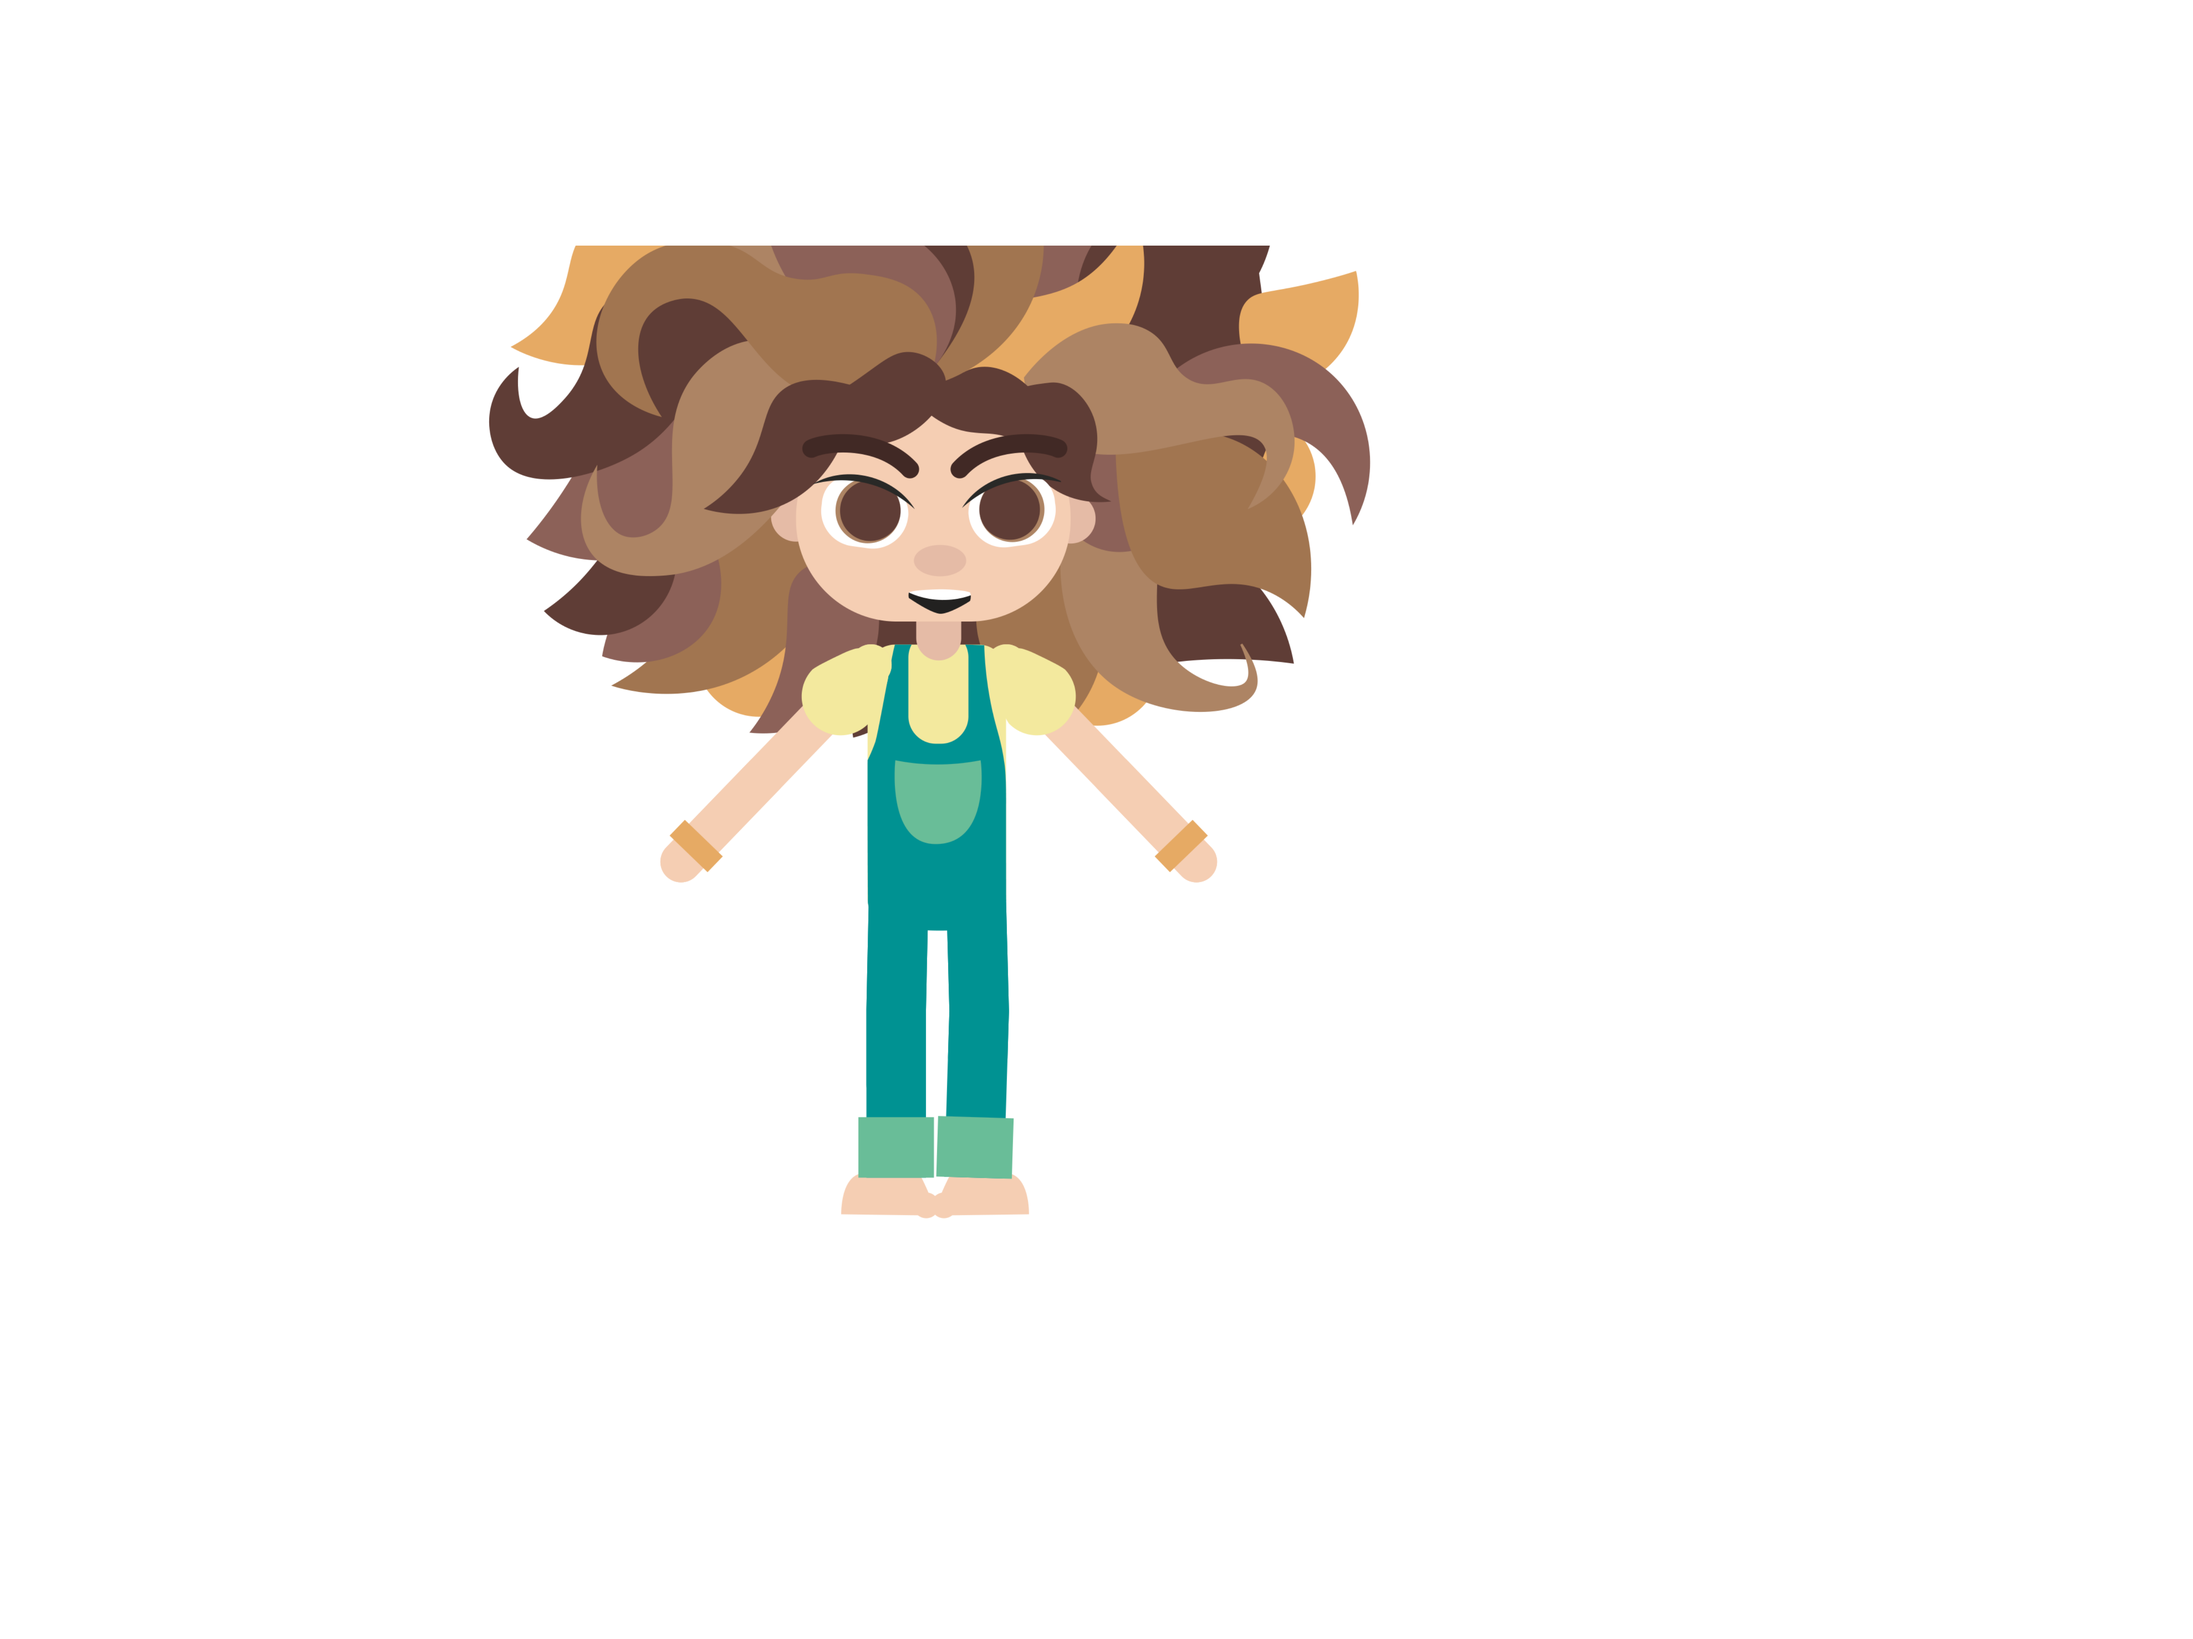
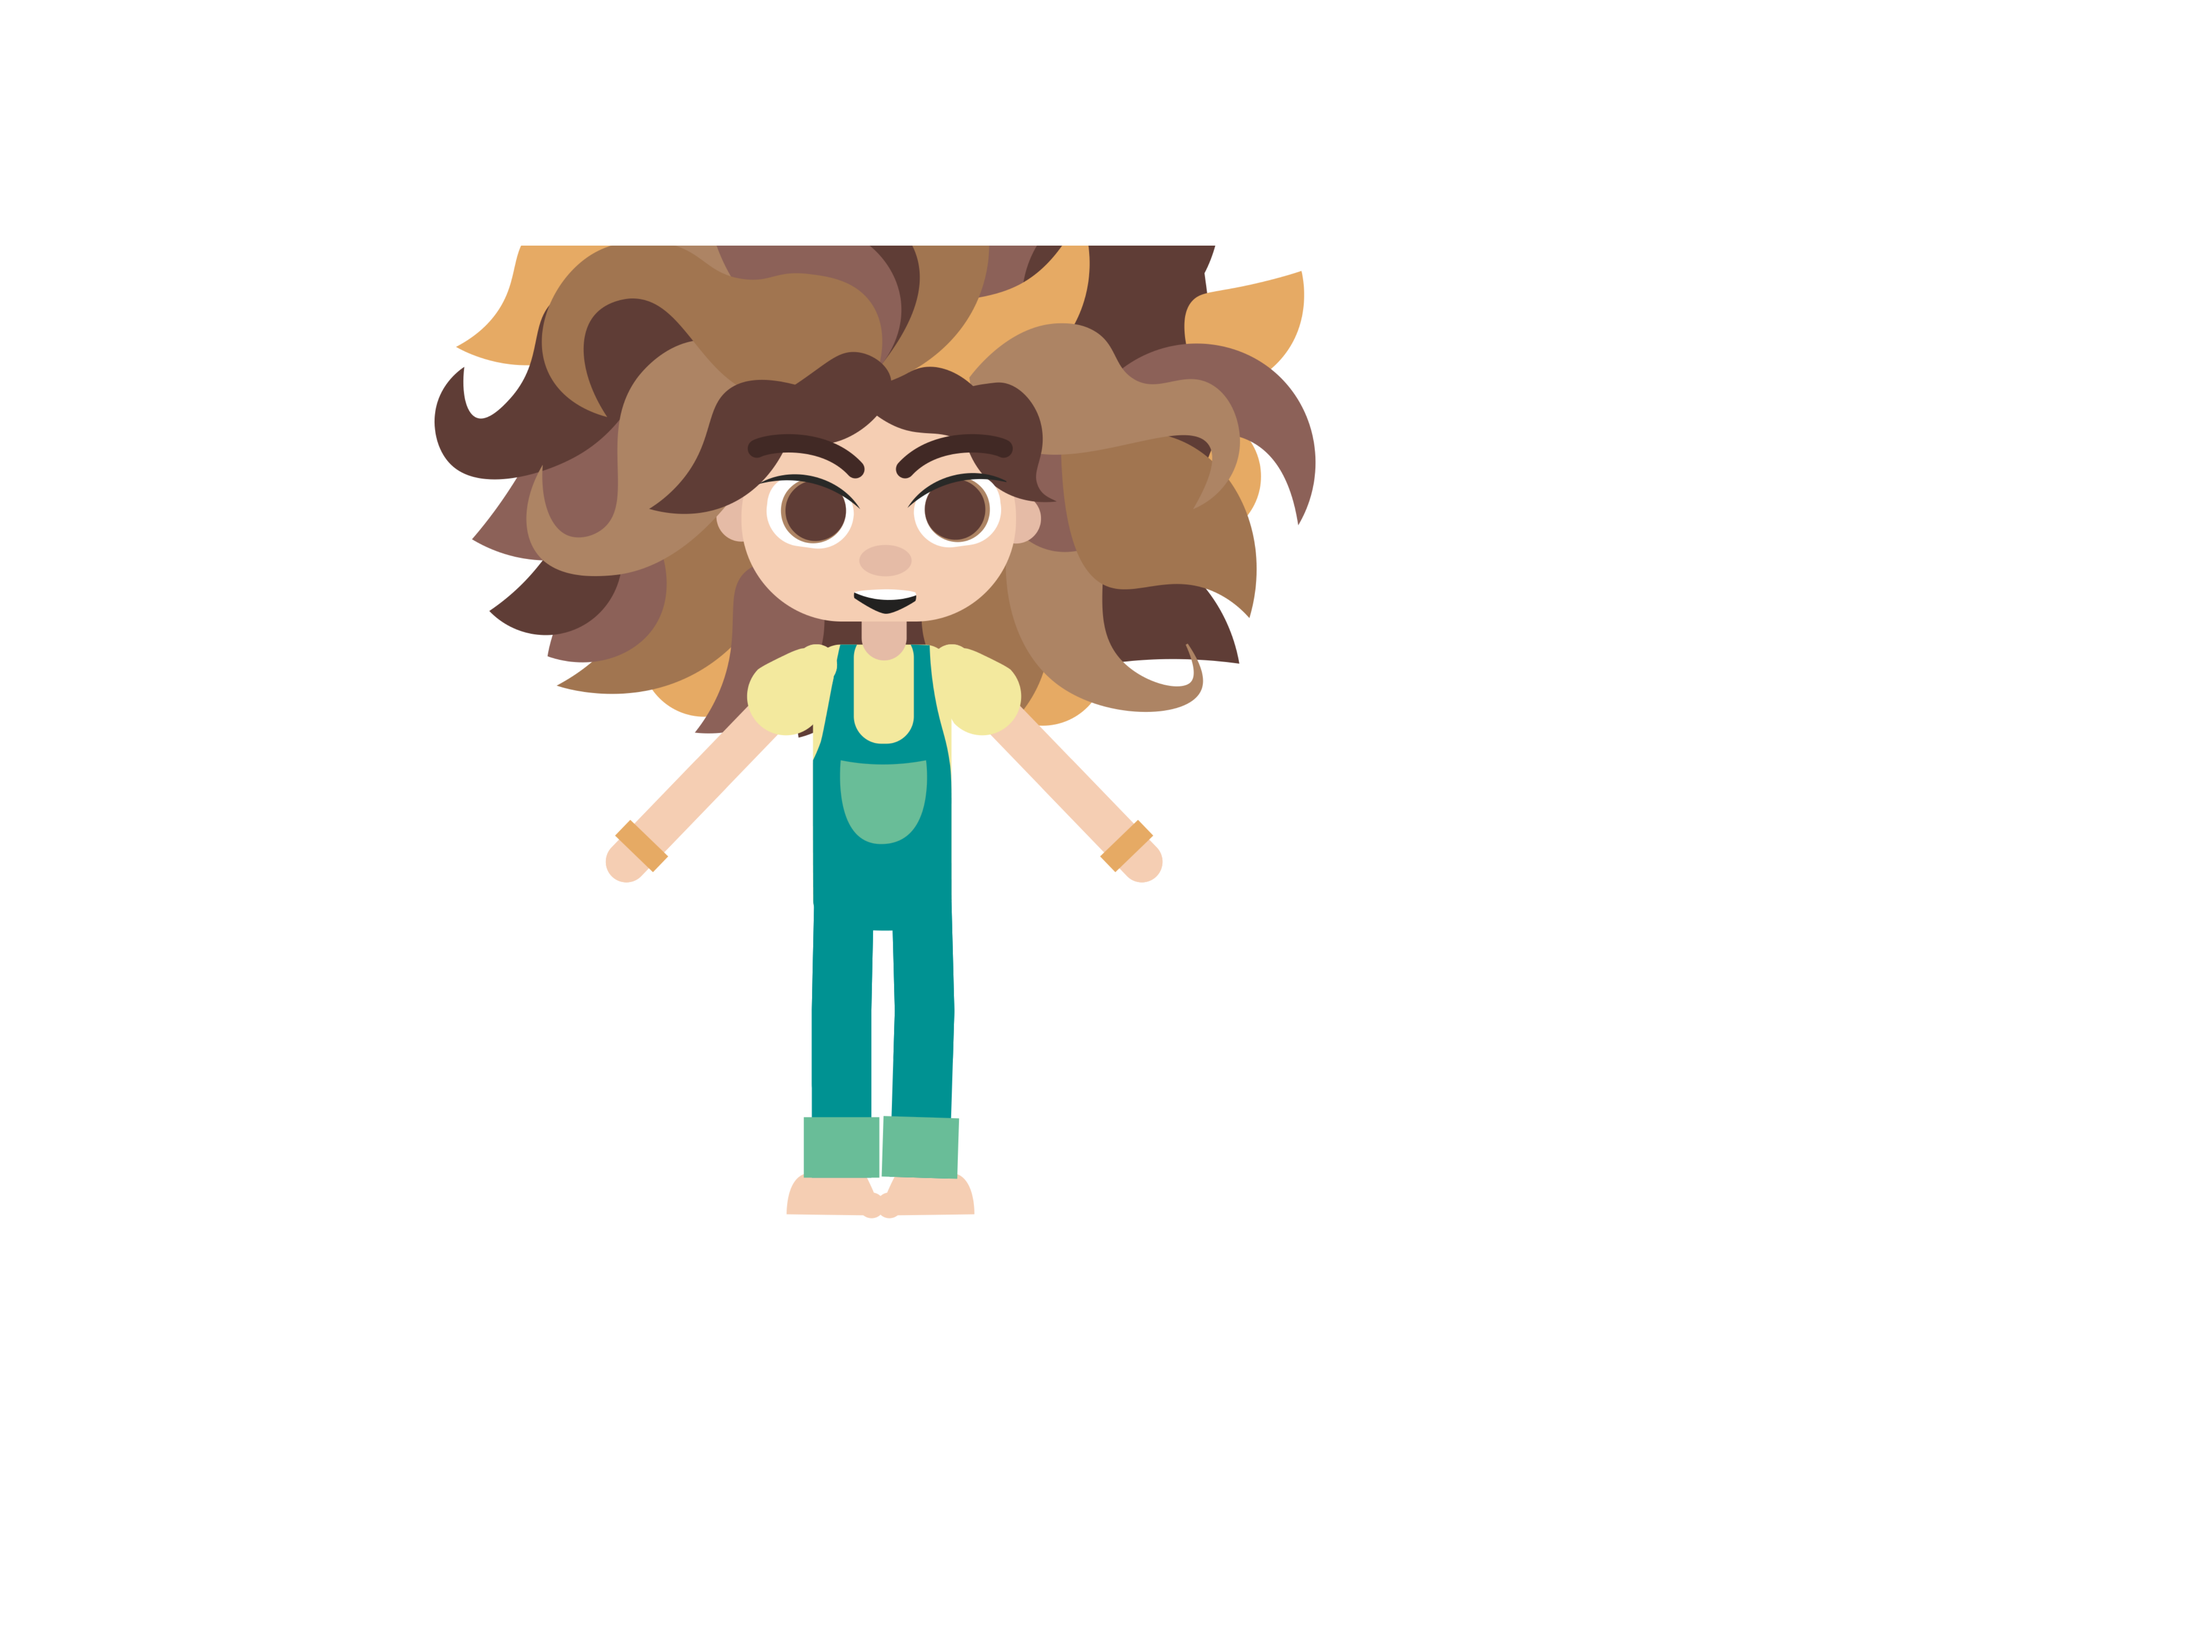
Mejoras interfaz camara

Changed region(s): [[0.1867, 0.1244, 0.6223, 0.7463]]

diff --git a/src/components/Camera.vue b/src/components/Camera.vue
@@ -108,16 +108,17 @@ export default defineComponent({
 			<img class="vineta-estandar" :src="personajeSeleccionado" />
       <!-- <div class="texto-explicativo"> Cada botón es un filtro de Click. ¿Qué pasará si los pulsas? También puedes cambiar de personaje en el selector de la derecha</div> -->
       <img src="../assets/PersonajesCamara/FondoCamara.png" class="imagen-fondo" />
+      <div class="selector-texto">SELECCIONA UN PERSONAJE</div>
 			<div id="pagination">
         <div class="horizontal" @click="seleccionarChuck()"><div :class="chuckTexto">Chuck</div> <button :class="chuckClass" data-slide="0"></button></div>
-				<div class="horizontal" @click="seleccionarIndia()"><div :class="indiaTexto">India</div> <button :class="indiaClass" data-slide="1"></button></div>
+				<div class="horizontal" @click="seleccionarIndia()"><div :class="indiaTexto">India</div> <button :class="indiaClass" data-slide="1"></button></div> 
+			</div>
+      <div class="button-text"><div class="texto-explicativo">Pulsa un filtro para sacar una foto</div>
         <div class="button-container">
           <div class='button' @click="mostrarPolaroidPensamiento()">PENSAMIENTOS</div>
           <div class='button' @click="mostrarPolaroidDeseo()">DESEOS</div>
           <div class='button'>PESADILLAS</div>
-        </div>
-			</div>
-      
+        </div></div>
       <div v-if="mostrarPolaroid">
         <div id="page-mask"></div>
         <img class="icono-cerrar" title="Cerrar la polaroid" @click="cerrarPolaroid()" src="@/assets/icons/Close.svg" />  
@@ -144,8 +145,7 @@ export default defineComponent({
   justify-content: center;
   position: absolute;
   z-index: 2;
-  margin-top: 300px;
-  margin-left: 100px;
+  margin-top: 10px;
   width: 100%;
 }
 
@@ -201,6 +201,8 @@ export default defineComponent({
 .camera-canvas {
   width: 100%;
   text-align: start;
+  background:#5C82B7;
+  z-index: 0;
 }
 .imagen-fondo {
   position:absolute;
@@ -230,8 +232,13 @@ export default defineComponent({
 }
 
 .texto-explicativo {
-  font-size: 20px;
-  
+  font-size: 30px;
+  font-family: "ComicBook";
+  color: white;
+  width: 100%;
+  text-align: center;
+  margin-top: 20px;
+  max-width: 1194px;
 }
 .texto-sin-seleccionar {
   margin-right: 30px;
@@ -337,7 +344,7 @@ export default defineComponent({
 #pagination {
   position: absolute;
   transform: translateY(250%);
-  right: 80px;
+  right: 50px;
   z-index: 6;
   width: 100%
 
@@ -407,5 +414,16 @@ export default defineComponent({
   cursor: pointer;
 }
 
+.button-text {
+  margin-top: 700px;
+}
 
+.selector-texto {
+  font-family: "ComicBook";
+  color: white;
+  text-align: right;
+  font-size: 15px;
+  right: 25px;
+  top: 300px;
+}
 </style>

diff --git a/src/App.vue b/src/App.vue
@@ -46,7 +46,7 @@ import Comic from '@/components/Comic.vue'
 
 #app {
   width: 100%;
-  max-width: 1366px;
+  max-width: 1194px;
   margin: 0px;
   padding: 0rem;
   font-weight: normal;
@@ -65,6 +65,7 @@ body {
 
 .portada {
     width: 100%;
+    max-width: 1194px;
   }
 
 .columnas {

diff --git a/src/components/Comic.vue b/src/components/Comic.vue
@@ -184,7 +184,7 @@ export default defineComponent({
 }
 
 .vineta-estandar {
-  max-width: 1366px;
+  max-width: 1194px;
   width: 100%;
 }
 
